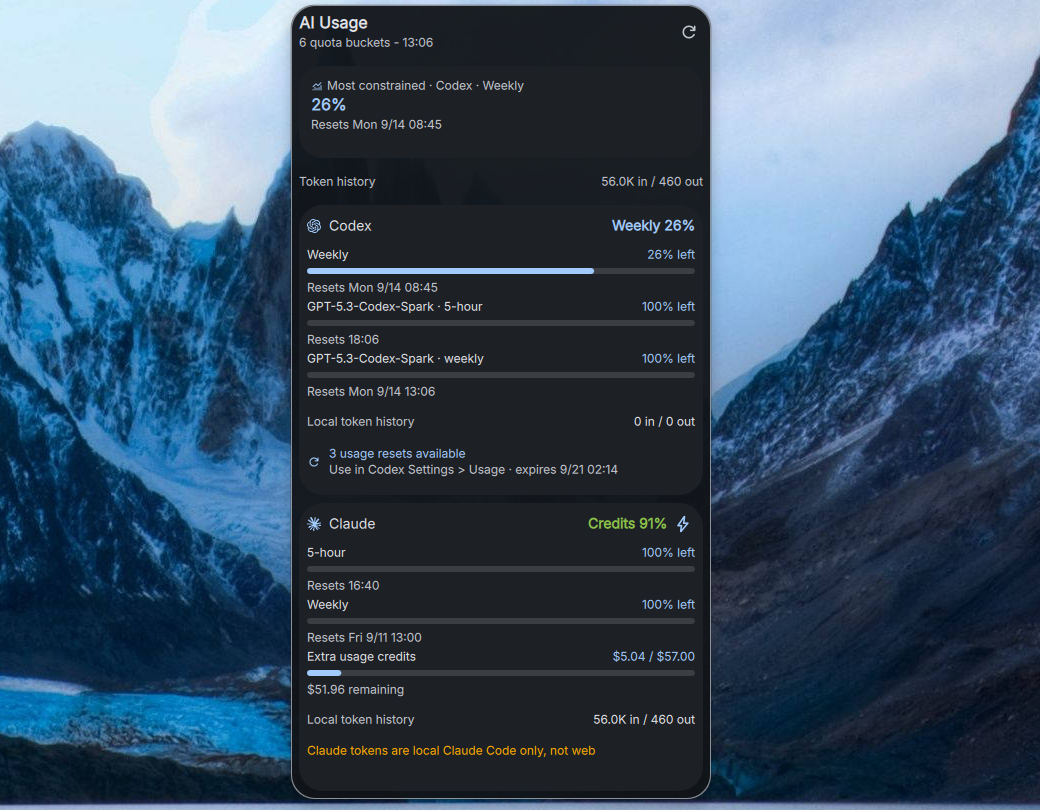
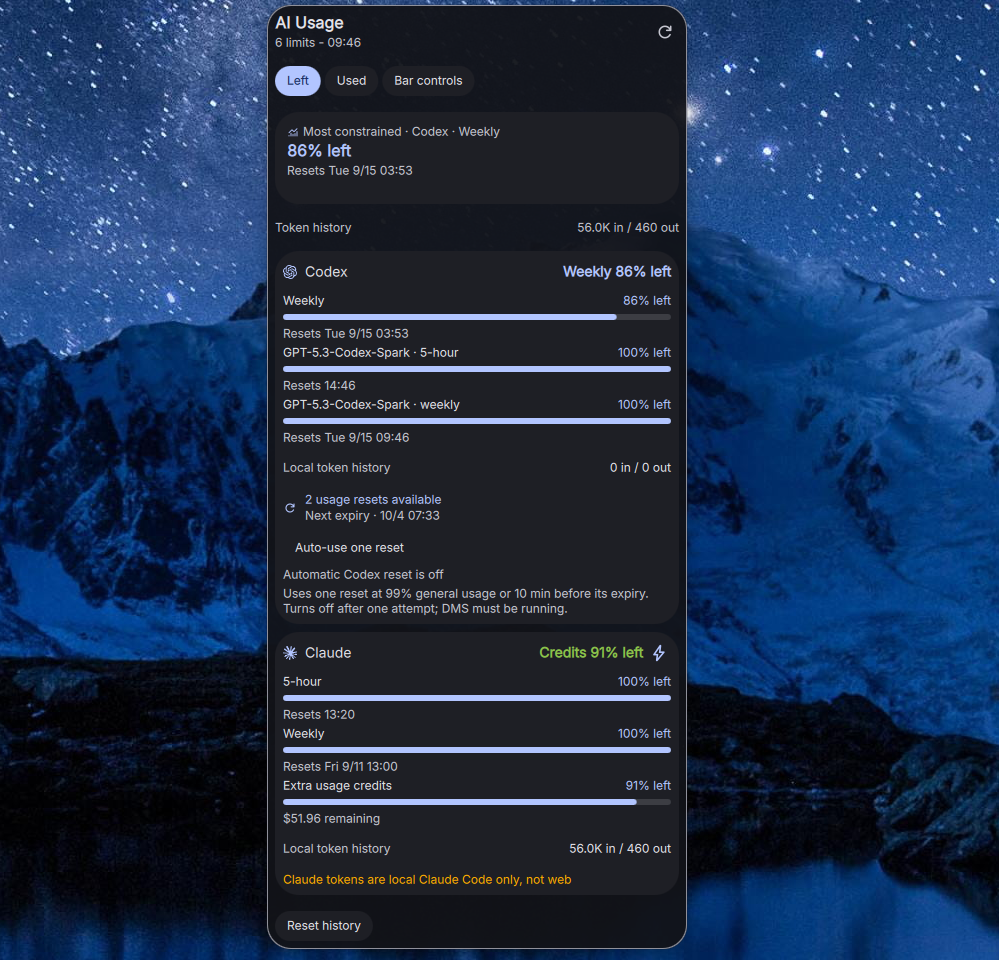
docs: refresh dropdown and bar screenshots

diff --git a/README.md b/README.md
@@ -4,9 +4,9 @@ DankAIUsage is a [DankMaterialShell](https://github.com/AvengeMedia/DankMaterial
 widget for Codex and Claude subscription quotas, extra-usage credits, and local
 token history. A small Go helper collects usage for the widget.
 
-![AI Usage dropdown with Codex and Claude quotas](docs/screenshot.png)
+![AI Usage dropdown with Codex and Claude quotas, display toggles, and reset controls](docs/screenshot.png)
 
-![AI Usage on the DankBar with provider logos and selected quotas](docs/screenshot-bar.png)
+![AI Usage on the DankBar with provider logos and minimal quota percentages](docs/screenshot-bar.png)
 
 ## Why this plugin?
 
